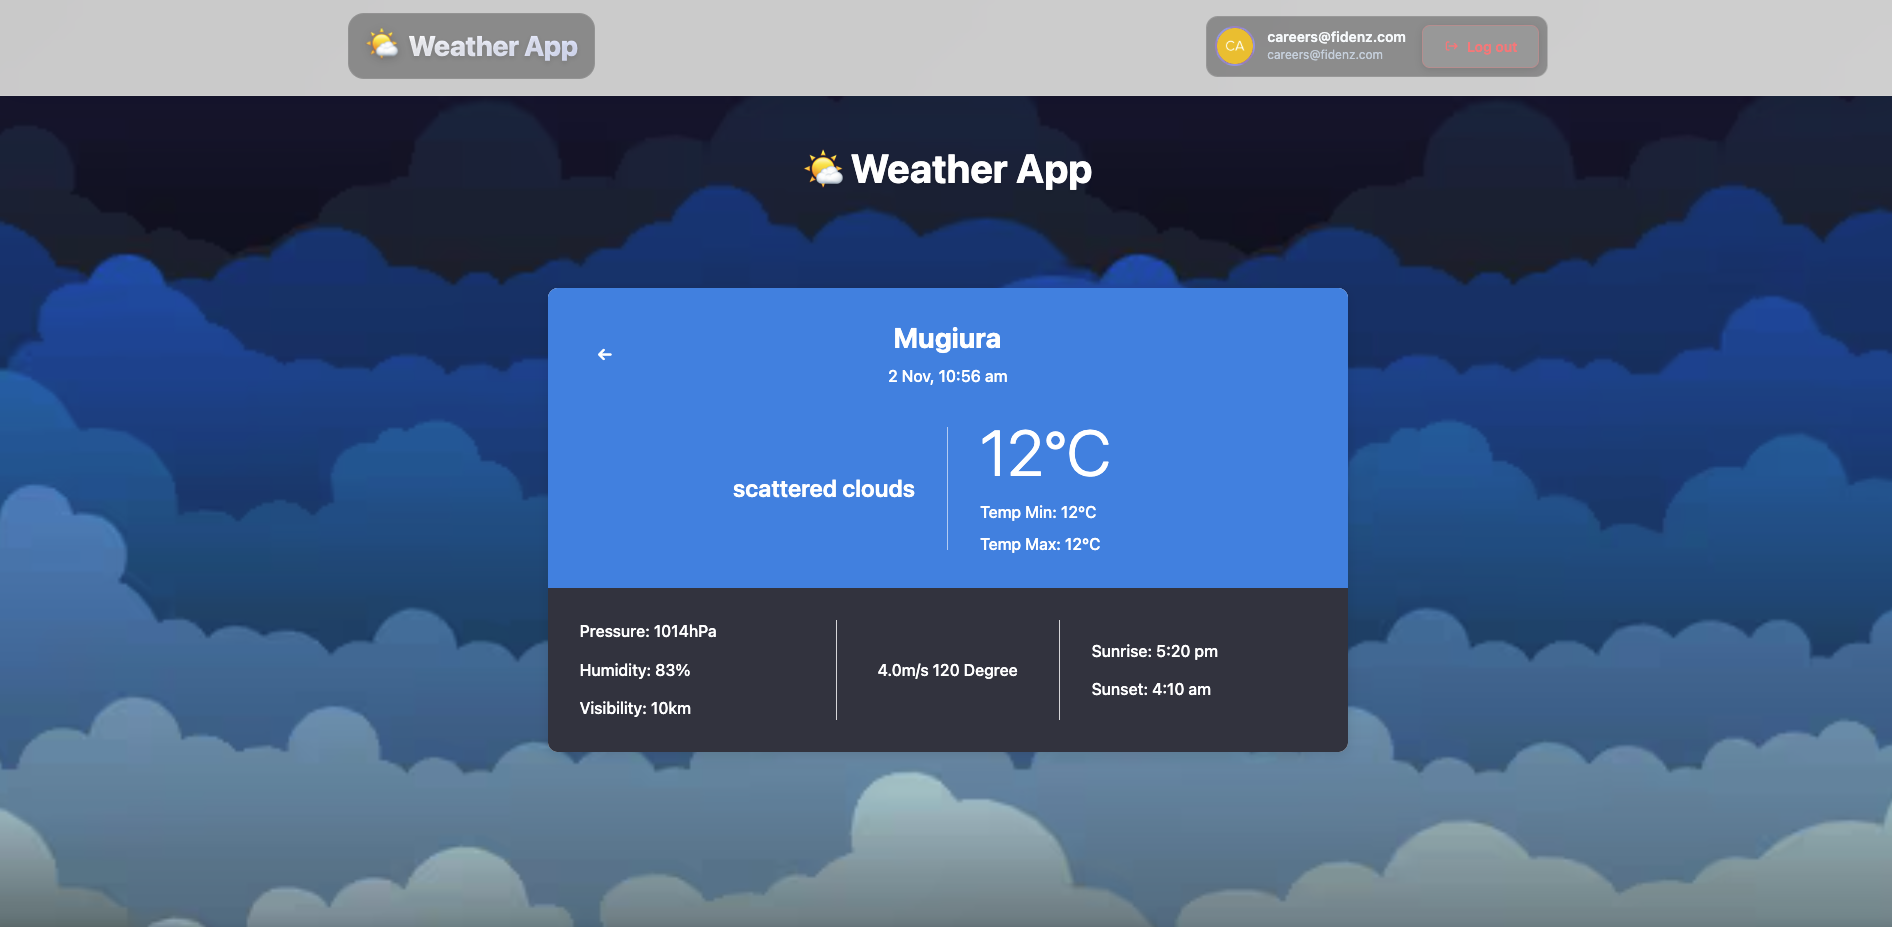
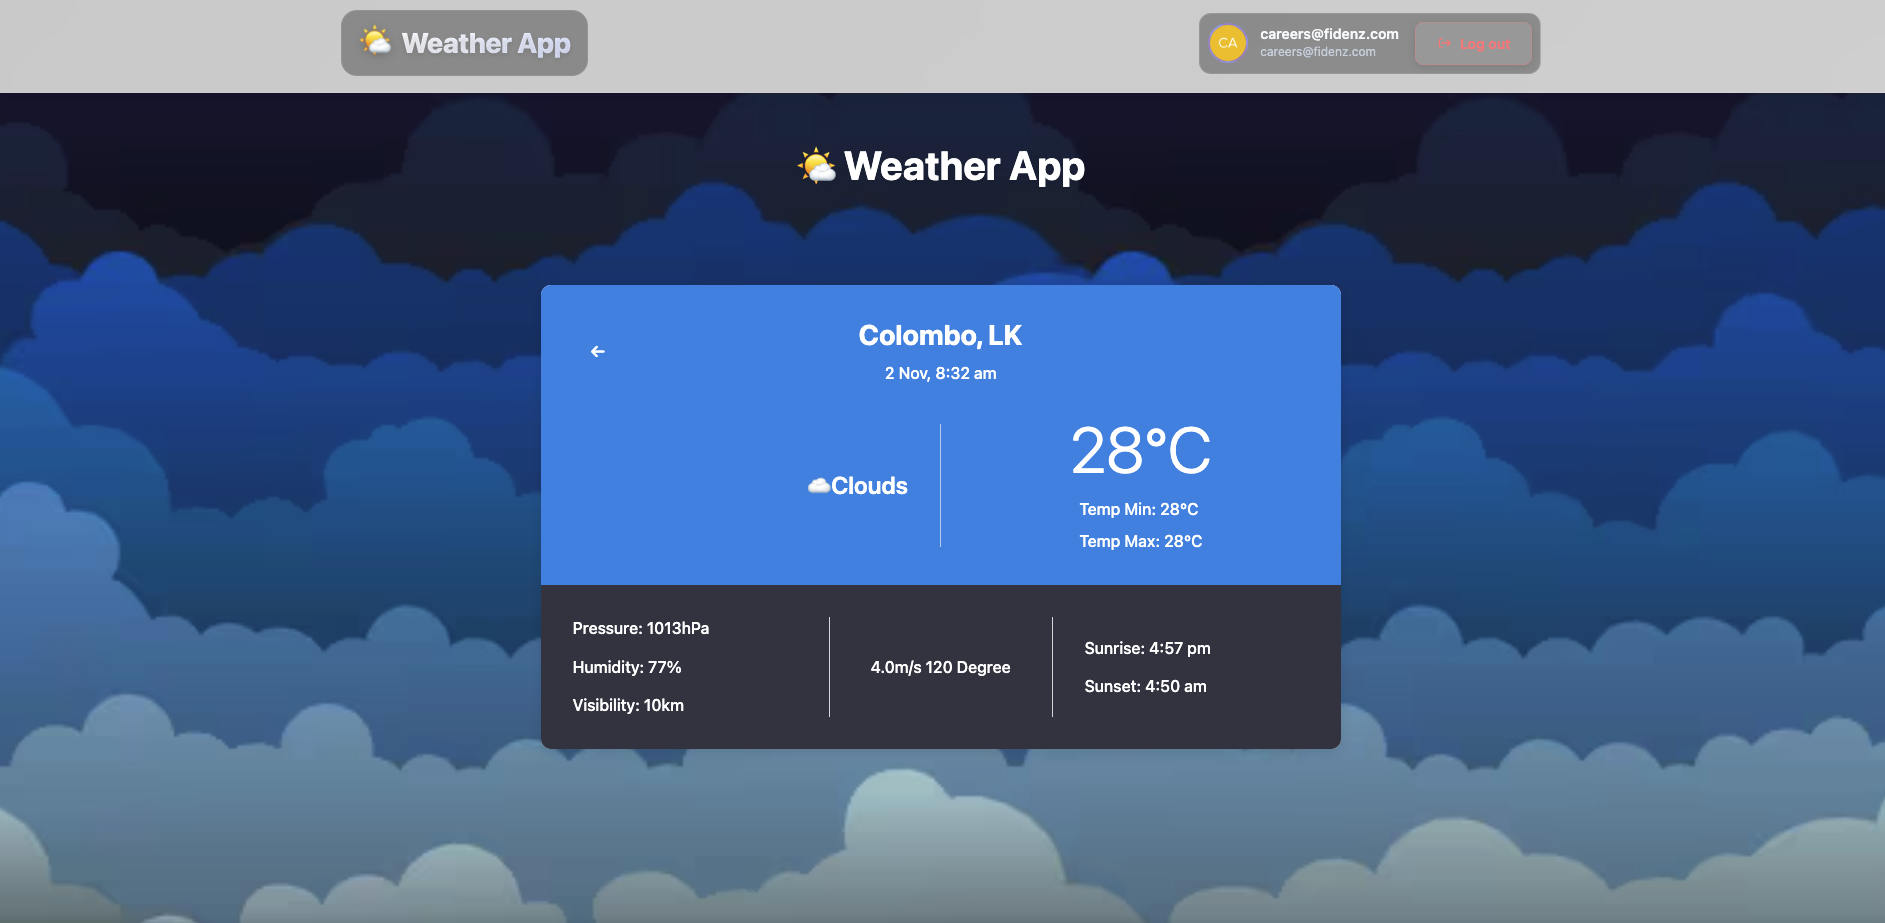
readme

diff --git a/src/routes/City.tsx b/src/routes/City.tsx
@@ -3,6 +3,7 @@ import { useNavigate, useParams } from "react-router-dom";
 import { useCities } from "../store/cities";
 import { getWeatherById, type WeatherData } from "../api/weather";
 import "./City.css";
+import { getWeatherIcon } from "../utils/weatherIcons";
 
 export default function City() {
   const nav = useNavigate();
@@ -44,7 +45,9 @@ export default function City() {
                   ←
                 </button>
                 <div className="city-time-info">
-                  <div className="city-name">{w?.name ?? city?.name ?? "Colombo, LK"}</div>
+                  <div className="city-name">
+                    {w ? `${w.name}${w.country ? `, ${w.country}` : ''}` : city?.name ?? "Colombo, LK"}
+                  </div>
                   <div className="time-date">{w?.time ?? "9.19am, Feb 8"}</div>
                 </div>
                 <div className="spacer"></div>
@@ -53,7 +56,10 @@ export default function City() {
               {/* Second Row - 2 Columns */}
               <div className="top-second-row">
                 <div className="weather-condition-column">
-                  <div className="weather-condition">{w?.description ?? "Few Clouds"}</div>
+                  <div className="weather-condition">
+                    <span className="weather-icon">{getWeatherIcon(w?.condition)}</span>
+                    {w?.condition ?? "Few Clouds"}
+                  </div>
                 </div>
                 
                 <div className="vertical-line"></div>

diff --git a/src/components/CityCard.tsx b/src/components/CityCard.tsx
@@ -4,6 +4,8 @@ import { useCities } from "../store/cities";
 import type { City } from "../store/cities";
 import { getWeatherById, type WeatherData } from "../api/weather";
 import "./CityCard.css";
+import { getWeatherIcon } from "../utils/weatherIcons";
+
 
 
 export default function CityCard({
@@ -44,10 +46,15 @@ export default function CityCard({
           <div className="city-info-column">
             <div className="city-header">
               <div className="city-info">
-                <h3 className="city-name">{w?.name ?? city.name}</h3>
+                <div className="city-name">
+                    {w ? `${w.name}${w.country ? `, ${w.country}` : ''}` : city?.name ?? "Loading..."}
+                  </div>
                 <div className="city-meta">
                   <span className="city-time">{w?.time ?? "9.19am, Feb 8"}</span>
-                  <span className="city-condition">{w?.condition ?? "Few Clouds"}</span>
+                  <span className="city-condition">
+                  <span className="weather-icon">{getWeatherIcon(w?.condition)}</span>
+                  {w?.condition ?? "Few Clouds"}
+                  </span>
                 </div>
               </div>
             </div>

diff --git a/src/api/weather.ts b/src/api/weather.ts
@@ -4,6 +4,7 @@ import axios from "axios";
 /** Data your cards/detail pages render */
 export type WeatherData = {
   name: string;
+  country: string;          // Country code (e.g., "LK", "US", "GB")
   condition: string;        // e.g. "Clouds"
   description: string;      // e.g. "few clouds"
   temp: number;             // °C
@@ -93,6 +94,7 @@ export async function getWeatherById(id: number, force = false): Promise<Weather
     const tz = data.timezone ?? 0;
     const result: WeatherData = {
       name: data.name,
+      country: data.sys?.country || "",  // ✅ Added country code
       condition: data.weather?.[0]?.main ?? "",
       description: data.weather?.[0]?.description ?? "",
       temp: Math.round(data.main?.temp),
@@ -154,4 +156,10 @@ export async function findCityIdByName(q: string): Promise<{ id: number; name: s
     id: Number(w.data.id),
     name: `${hit.name}${hit.country ? ", " + hit.country : ""}`,
   };
+}
+
+// ✅ Optional: Helper function to format city name with country
+export function formatCityCountry(cityName: string, countryCode: string): string {
+  if (!countryCode) return cityName;
+  return `${cityName}, ${countryCode}`;
 }

diff --git a/src/utils/weatherIcons.ts b/src/utils/weatherIcons.ts
@@ -1,0 +1,40 @@
+// src/utils/weatherIcons.ts
+export const getWeatherIcon = (condition: string | undefined) => {
+  if (!condition) return "⛅";
+  
+  const iconMap: Record<string, string> = {
+    // Clear
+    "Clear": "☀",
+    
+    // Clouds
+    "Clouds": "☁",
+    "Few Clouds": "🌤",
+    "Scattered Clouds": "⛅",
+    "Broken Clouds": "☁",
+    "Overcast Clouds": "☁",
+    
+    // Rain
+    "Rain": "🌧",
+    "Drizzle": "🌦",
+    "Shower Rain": "🌦",
+    "Thunderstorm": "⛈",
+    "Storm": "⛈",
+    
+    // Snow
+    "Snow": "❄",
+    "Sleet": "🌨",
+    
+    // Atmosphere
+    "Mist": "🌫",
+    "Smoke": "🌫",
+    "Haze": "🌫",
+    "Dust": "🌫",
+    "Fog": "🌫",
+    "Sand": "🌫",
+    "Ash": "🌫",
+    "Squall": "💨",
+    "Tornado": "🌪",
+  };
+  
+  return iconMap[condition] || "⛅";
+};
